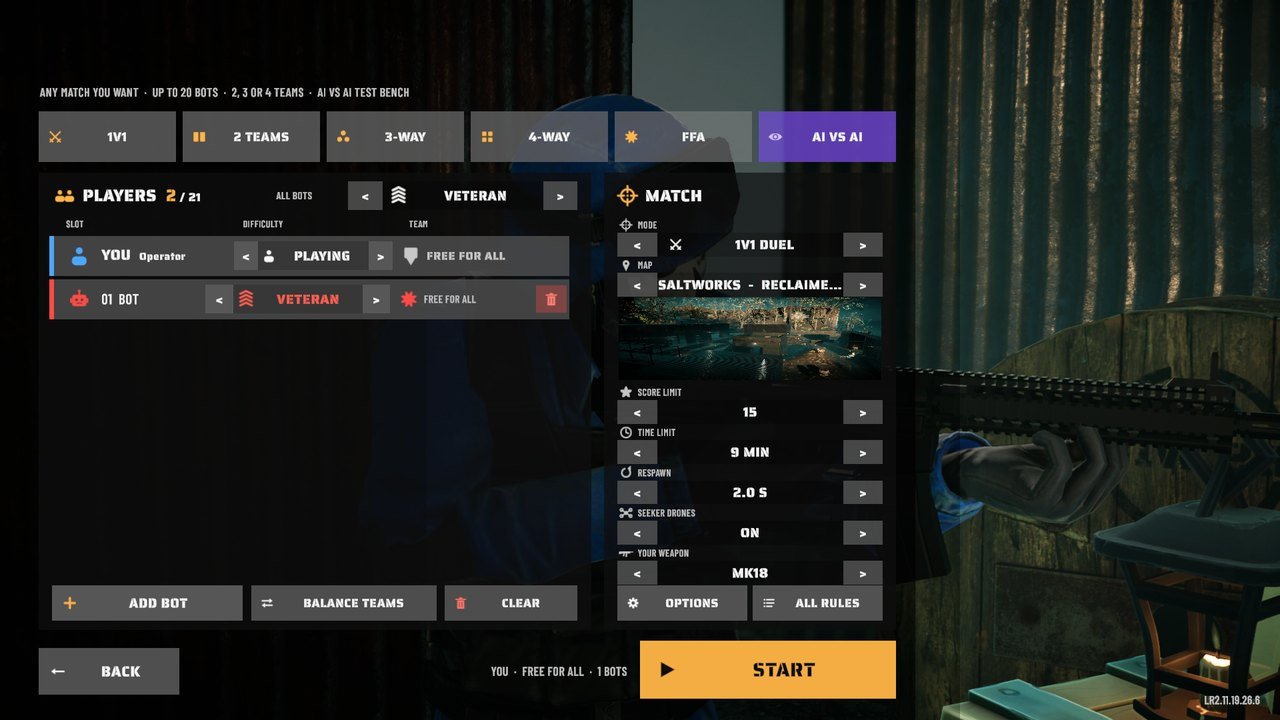
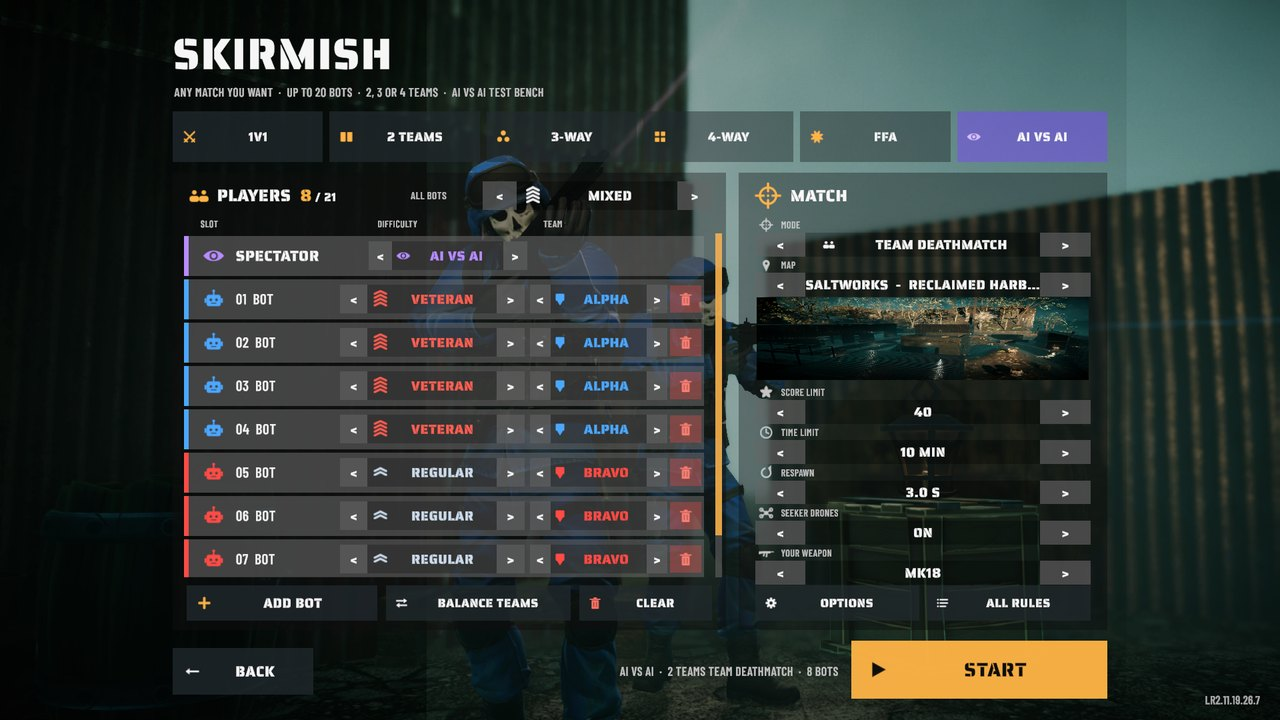
README: match setup (skirmish lobby) screenshot, AI vs AI and headshot killcam; features page killcam and refreshed lobby captures

diff --git a/Docs/Updates/2026-11-19.md b/Docs/Updates/2026-11-19.md
@@ -80,11 +80,18 @@ The camera moves in real time with a faint handheld drift; the soldiers walk bet
 
 | Change | What it does |
 |---|---|
-| **Headshot killcam** (B111) | When the killcam reaches a killing headshot it cuts beside the bullet's path. The round streaks the last 1.9 m in near-frozen time, the camera swings round to a side-on view as it hits, and the impact plays out at about 0.5x, with a whizz past the lens. It replaces 0.34 s of the normal replay, so a headshot killcam is only about 0.75 s longer. |
+| **Headshot killcam** (B111, captured below) | When the killcam reaches a killing headshot it cuts beside the bullet's path. The round streaks the last 1.9 m in near-frozen time, the camera swings round to a side-on view as it hits, and the impact plays out at about 0.5x, with a whizz past the lens. It replaces 0.34 s of the normal replay, so a headshot killcam is only about 0.75 s longer. |
 | **One colour per team** (B116) | Your team is always Alpha (blue), Bravo red, Charlie green, Delta gold; in free-for-all you are blue and everyone else red. The same colours in the lobby, uniforms (Charlie and Delta tinted), lasers, kill feed, minimap, scoreboard, chat, score panel and capture zone. |
 | **Laser lights what it hits** (B113) | A small shadowless light sits just off the laser dot, so the dot tints the wall around it in dark rooms and at night and fades out in daylight like a real laser. |
 | **Snappy movement** (B90) | Hold **X** to crouch, tap **X twice** while sprinting to slide; the sprint pose blends in twice as fast; going prone and getting up take about 0.9 s instead of 5-6 s; quicker speed response. |
 | **Tactical reload** (B94) | 15 % faster, ends at the magazine-seat cue and blends out over 0.45 s: 2.35 s to 2.00 s on the AK-74N. |
+
+| Headshot killcam: replay, then the bullet cam | |
+|---|---|
+| ![Headshot killcam: the replay from the killer's view, then the letterboxed bullet cam](../Media/updates/2026-11-19/killcam_headshot.gif) | ![Killcam replay title: killed by, rifle, 14 m, headshot, replay](../Media/updates/2026-11-19/killcam_replay.jpg) |
+
+*A bot's real shot was turned into a lethal headshot by the `-lr2KillcamMedia` harness. Each frame takes about a third of a second
+to save, so the bullet cam looks choppier here than in the game.*
 
 ## Gunplay
 
@@ -142,8 +149,7 @@ Bars show the typical time and whiskers the earliest to latest.*
 
 ## Still to capture and still open
 
-- **Still to capture:** the headshot bullet cam (the first staging made the player invulnerable, and bots do not shoot protected
-  players; fixed, re-running), the Particle Pack effects (the capture camera missed them) and the laser light.
+- **Still to capture:** the Particle Pack effects (the capture camera missed them) and the laser light.
 - **B26 hand placement:** a first grip correction went into one build; a bot's arm was then seen spinning while spectating, so it
   was reverted to the last known-good offsets. Hands come back with measured, per-pose checks.
 - Open: B92 more lights and ambience, B95 grunts and indoor/outdoor audio, B99 floating props, B102 blood on the gun, B104 the

diff --git a/README.md b/README.md
@@ -41,6 +41,16 @@ and the protocol experiments: [How AI agents are building LeadRush 2](Docs/AI_Co
 
 ## Screenshots
 
+### Match setup and AI vs AI (`11.19.26.7`)
+
+![The skirmish lobby: PLAY opens a roster of up to 20 bots, each with its own difficulty and team, presets, and match settings](Docs/Media/match_setup.jpg)
+
+| AI vs AI: chase cam on a bot | The headshot killcam |
+|---|---|
+| ![AI vs AI spectating with the AI test bench panel](Docs/Media/updates/2026-11-19/aivsai_chase.gif) | ![Headshot killcam: the replay, then the bullet cam](Docs/Media/updates/2026-11-19/killcam_headshot.gif) |
+
+More from this build, with what changed: [What's new on 2026-11-19](Docs/Updates/2026-11-19.md).
+
 In-game captures, 1920 x 1080, build 11.18.26.4 (2026-11-18).
 
 ### Gameplay Clips (`11.18.26.4`)
